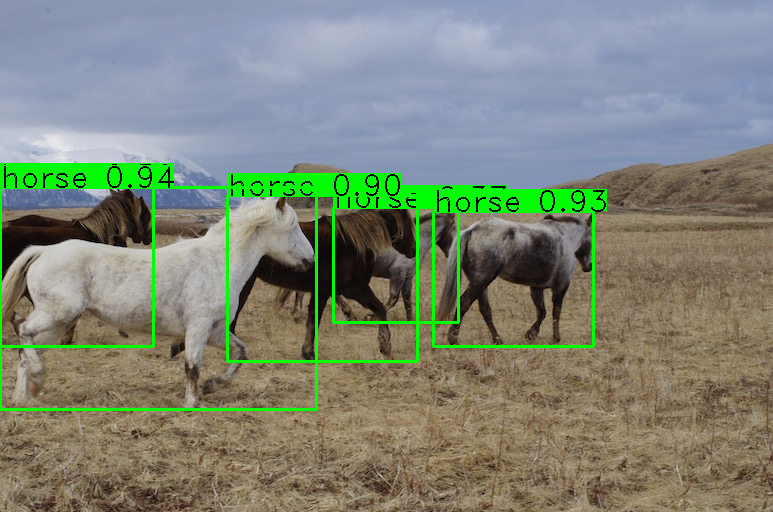
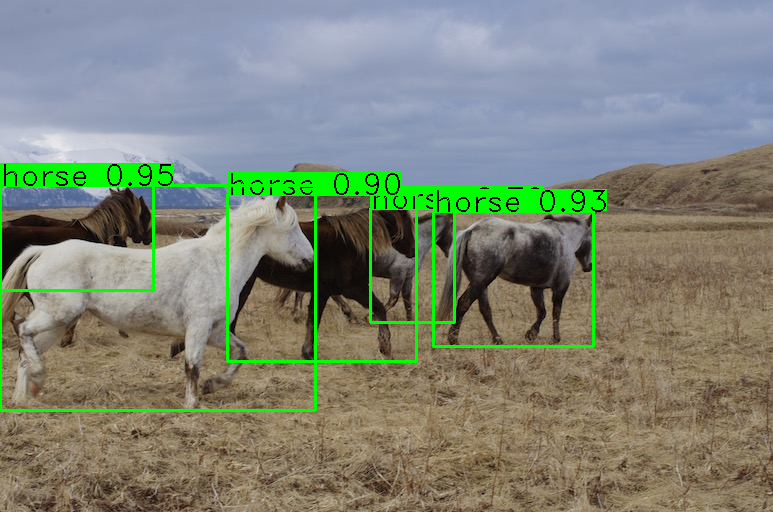
[inferenceTool] update for inherit inference

diff --git a/include/inferenceTool.hpp b/include/inferenceTool.hpp
@@ -20,14 +20,26 @@ public:
         }
     }
 };
+
 class inferenceTool
 {
     public:
-        inferenceTool(std::string path);
-        ~inferenceTool();
-        void run(std::vector<float> &input, cv::Mat &output);
-    private:
+        inferenceTool() = default;
+        explicit inferenceTool(std::string path){};
+        ~inferenceTool(){};
+        virtual void run(std::vector<float> &input, cv::Mat &output){};
         std::string m_modelPath;
+};
+
+class TRTInferenceTool : public inferenceTool
+{
+    public:
+        TRTInferenceTool(std::string path);
+        ~TRTInferenceTool();
+        void run(std::vector<float> &input, cv::Mat &output) override;
+    private:
+        int getIOSize(char const *name);
+
         std::unique_ptr<IExecutionContext> m_context;
         std::shared_ptr<ICudaEngine> m_engine;
         std::unique_ptr<IRuntime> m_runtime;
@@ -35,7 +47,6 @@ class inferenceTool
         int m_outputSize = 0;
         int m_outputBoxNum = 8400;
         int m_outputClass = 84; // w,y,w,h and 80 class-> 80+4
-        int getIOSize(char const *name);
         Logger gLogger;
         char const* inputName;
         char const* outputName;

diff --git a/src/inferenceTool.cpp b/src/inferenceTool.cpp
@@ -1,5 +1,5 @@
 #include "../include/inferenceTool.hpp"
-inferenceTool::inferenceTool(std::string path)
+TRTInferenceTool::TRTInferenceTool(std::string path)
 {
     std::ifstream file(path, std::ios::binary);
     if (!file.is_open()) {
@@ -53,7 +53,7 @@ inferenceTool::inferenceTool(std::string path)
 }
 
 
-int inferenceTool::getIOSize(char const *name)
+int TRTInferenceTool::getIOSize(char const *name)
 {
     int temp = 1;
     for(int i = 0; i < m_engine->getTensorShape(name).nbDims; i++)
@@ -64,7 +64,7 @@ int inferenceTool::getIOSize(char const *name)
     return temp;
 }
 
-inferenceTool::~inferenceTool()
+TRTInferenceTool::~TRTInferenceTool()
 {
     cudaFree(buffers[0]);
     cudaFree(buffers[1]);
@@ -73,7 +73,7 @@ inferenceTool::~inferenceTool()
     m_runtime.reset();
 }
 
-void inferenceTool::run(std::vector<float> &input, cv::Mat &output)
+void TRTInferenceTool::run(std::vector<float> &input, cv::Mat &output)
 {
     cudaStream_t stream;
     cudaStreamCreate(&stream);

diff --git a/main.cpp b/main.cpp
@@ -16,7 +16,7 @@ int main()
     objTool.HWC2NormalCHW(outImg, data);
     std::cout << data[0] << std::endl;
     cv::Mat res;
-    inferenceTool infTool("./data/yolov9-c-converted.trt");
+    TRTInferenceTool infTool("./data/yolov9-m-converted.trt");
     infTool.run(data,res);
     objTool.postprocess(res);
     objTool.draw(img,img,objTool.m_PredBox_vector);
